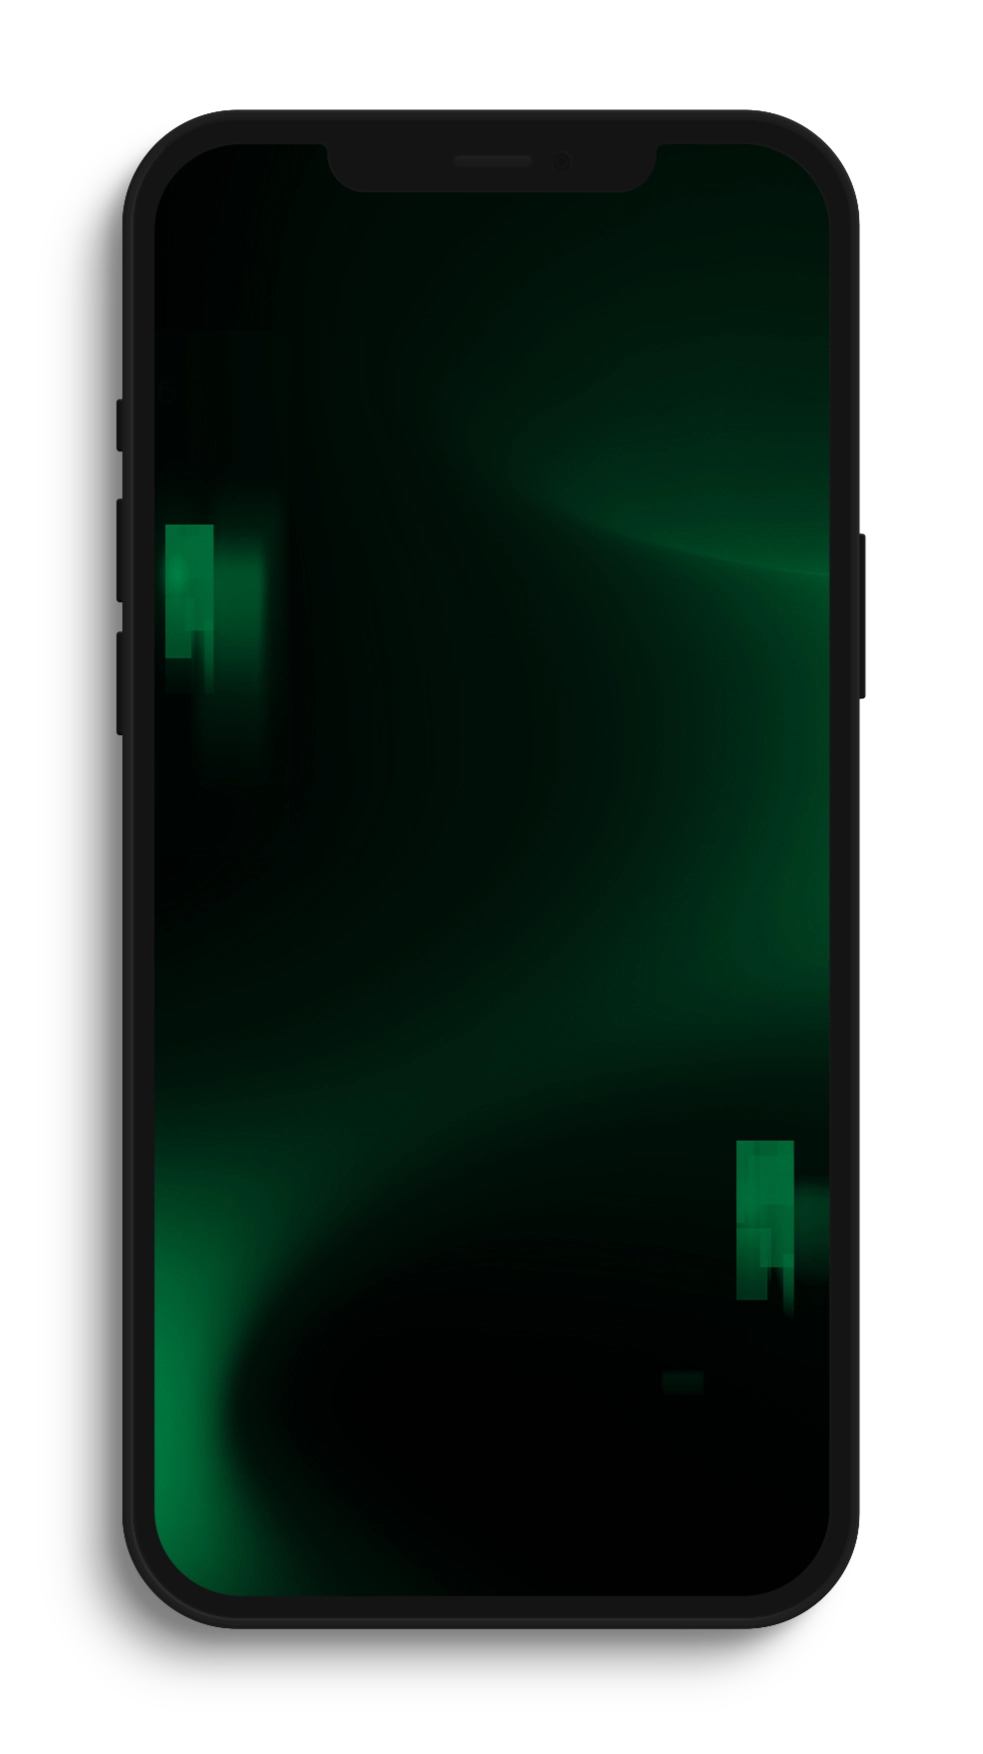
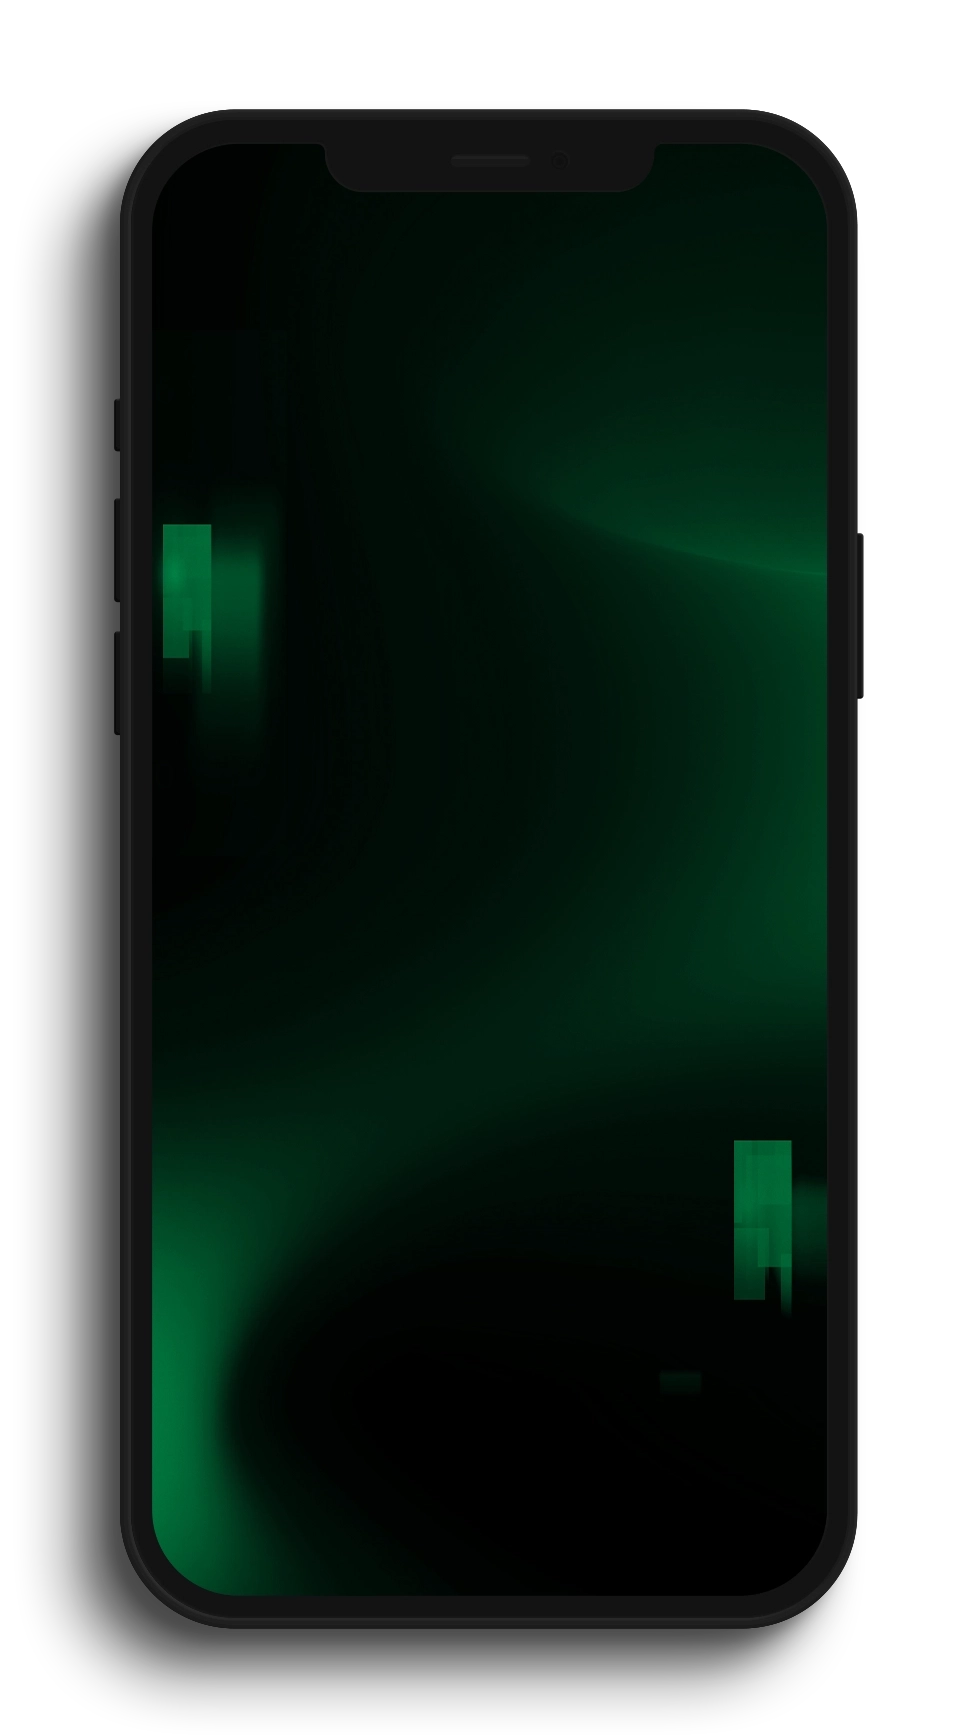
reviews phone and slider position

diff --git a/src/styles/.output/style.css b/src/styles/.output/style.css
@@ -3822,25 +3822,102 @@ body::-webkit-scrollbar-thumb {
   text-align: center;
 }
 
-.reviews__phone-wrap {
+.reviews {
   position: relative;
 
-  width: -moz-fit-content;
+  min-height: 1100px;
 
-  width: fit-content;
+  padding-top: 285px;
+}
+
+.reviews__phone-wrap {
+  position: absolute;
+  top: 50%;
+  left: 50%;
+  transform: translate(-50%, -50%);
+
+  width: 100%;
+  max-width: 555px;
+
+  margin: 0 auto;
 }
 
 .reviews__phone-wrap::before {
     content: '';
     position: absolute;
-    inset: 0;
+    top: 50%;
+    left: 50%;
+    transform: translate(-50%, -50%);
     z-index: -1;
-    filter: blur(500px);
+    filter: blur(110px);
     opacity: 0.5;
+
+    width: 706px;
+    height: 910px;
 
     border-radius: 50%;
 
     background: #ffffff26;
   }
+
+.reviews__wrap {
+  display: flex;
+  flex-direction: column;
+  align-items: center;
+  justify-content: space-between;
+
+  max-width: 330px;
+  height: 628px;
+
+  margin: 0 auto;
+}
+
+.reviews-slider {
+}
+
+.review {
+  position: relative;
+
+  padding: 23px 25px 23px;
+  border: 1px solid #2af895;
+  border-radius: 16px 16px 16px 0px;
+
+  background: #001e0e80;
+  -webkit-backdrop-filter: blur(10px);
+          backdrop-filter: blur(10px);
+}
+
+.review__name {
+  margin-bottom: 4px;
+
+  font-family: 'Inter', sans-serif;
+  font-size: 14px;
+  font-weight: 600;
+}
+
+.review__text {
+  margin-bottom: 8px;
+
+  color: #ffffffcc;
+
+  font-family: 'Inter', sans-serif;
+  font-size: 16px;
+  font-weight: 300;
+  line-height: 1.4;
+  letter-spacing: 0.1em;
+}
+
+.review__reactions {
+  width: -moz-fit-content;
+  width: fit-content;
+
+  padding: 6px 10px;
+  border-radius: 999px;
+
+  color: var(--cl-white);
+  background: rgba(255, 255, 255, 0.1);
+
+  font-size: 14px;
+}
 
 /*# sourceMappingURL=style.css.map */

diff --git a/src/html/sections/reviews.html b/src/html/sections/reviews.html
@@ -10,6 +10,33 @@
           class="reviews__phone"
         />
       </div>
+
+      <div class="reviews__wrap">
+        <div class="reviews-slider">
+          <div class="swiper-wrapper">
+            <div class="swiper-slide">
+              <div class="review">
+                <div class="review__name">A K</div>
+                <div class="review__text">
+                  Очень благодарен компании Peterson trade за отличное обучение.
+                  Сам я длительный период времени работал самостоятельно, а как
+                  известно, что переучить человека намного сложнее. Ментор
+                  Олександр отлично справился с этим и помог мне структурировать
+                  знания, очень ему благодарен. Так же хочу отметить проект
+                  Profit и профессионализм теж трейдеров, которые помогают в
+                  разборе сделок и дают актуальную информацию о теж активах на
+                  которые стоит обратить внимание.
+                </div>
+                <div class="review__reactions">❤ 4</div>
+              </div>
+            </div>
+          </div>
+        </div>
+
+        <button class="btn no-border">
+          <span class="btn__text">Переглянути відгуки</span>
+        </button>
+      </div>
     </div>
   </div>
 </section>

diff --git a/src/layout/html-top.html b/src/layout/html-top.html
@@ -10,7 +10,7 @@
   <link rel="preconnect" href="https://fonts.googleapis.com" />
   <link rel="preconnect" href="https://fonts.gstatic.com" crossorigin />
   <link
-    href="https://fonts.googleapis.com/css2?family=Montserrat:ital,wght@0,100..900;1,100..900&displayfamily=Inter:ital,opsz,wght@0,14..32,100..900;1,14..32,100..900=swap"
+    href="https://fonts.googleapis.com/css2?family=Montserrat:ital,wght@0,100..900;1,100..900&family=Inter:ital,opsz,wght@0,14..32,100..900;1,14..32,100..900&display=swap"
     rel="stylesheet"
   />
   <title>{{ title }}</title>
